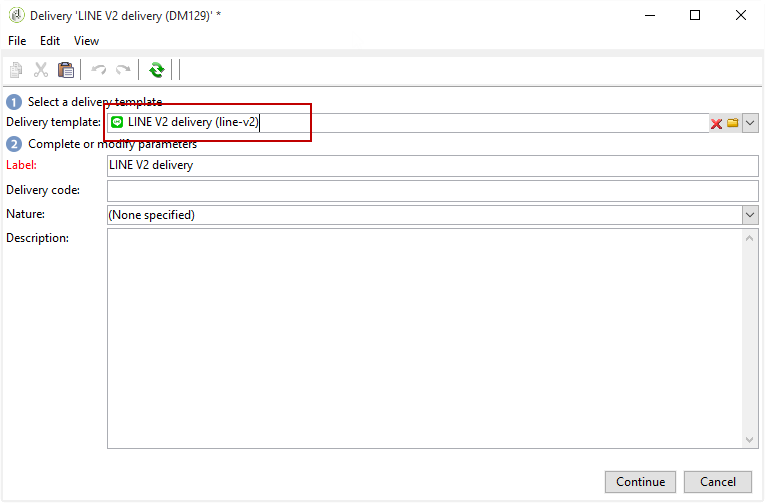
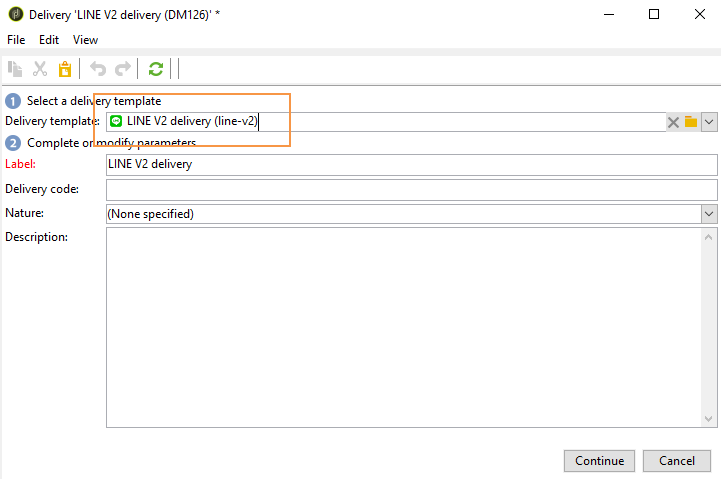
Line wip

diff --git a/help/delivery/using/line-channel.md b/help/delivery/using/line-channel.md
@@ -12,7 +12,7 @@ topic-tags: sending-messages-on-mobiles
 
 >[!NOTE]
 >
-> [!DNL LINE] is only available for on-premise or managed services installations.
+>[!DNL LINE] is only available for on-premise or managed services installations.
 
 [!DNL LINE] is an application for free instant messaging, voice and video calls, available on every mobile OS and on PC.
 
@@ -68,27 +68,51 @@ The [!DNL LINE] is now configured in Adobe Campaign, you can start creating and 
 
 >[!NOTE]
 >
->When sending a LINE delivery to a new recipient for the first time, you must add the official LINE message regarding the terms of use and consent into the delivery. The official message is available at the following link: [https://terms.line.me/OA_privacy/](https://terms.line.me/OA_privacy/sp?lang=fr).
+>When sending a [!DNL LINE] delivery to a new recipient for the first time, you must add the official LINE message regarding the terms of use and consent into the delivery. The official message is available at the [following link](https://terms.line.me/OA_privacy/sp?lang=fr).
 
 To create a [!DNL LINE] delivery you have to follow these steps:
 
 1. From the **[!UICONTROL Campaigns]** tab, select **[!UICONTROL Deliveries]** then click the **[!UICONTROL Create]** button. 
-1. In the window that appears, select **[!UICONTROL LINE V2 delivery]** delivery template.
+
+   ![](assets/line_message_07.png)
+
+1. Select **[!UICONTROL LINE V2 delivery]** delivery template.
 
    ![](assets/line_message_01.png)
 
-1. Identify your delivery with a label, code, and description. For more on this, refer to [this section](../../delivery/using/steps-create-and-identify-the-delivery.md#identifying-the-delivery).
+1. Identify your delivery with a **[!UICONTROL Label]**, **[!UICONTROL Delivery code]**, and  **[!UICONTROL Description]**. For more on this, refer to [this section](../../delivery/using/steps-create-and-identify-the-delivery.md#identifying-the-delivery). 
+   
 1. Click **[!UICONTROL Continue]** to create your delivery.
 
-1. In the delivery editor, select **[!UICONTROL To]** to target the recipients of your [!DNL LINE] delivery Targeting is carried out on **[!UICONTROL Visitors (nms:visitor)]**.
+1. In the delivery editor, select **[!UICONTROL To]** to target the recipients of your [!DNL LINE] delivery. Targeting is carried out on **[!UICONTROL Visitor subscriptions (nms:visitorSub)]**.
    
    For more information, refer to [Identifying target populations](../../delivery/using/steps-defining-the-target-population.md). 
+
+   ![](assets/line_message_08.png)
+
+1. Click **[!UICONTROL Add]** to select your **[!UICONTROL Delivery target population]**.
+
+   ![](assets/line_message_09.png)
+
+1. Choose if you want to target [!DNL LINE] subscribers directly or if you want to target users depending on their [!DNL LINE] subscription and click **[!UICONTROL Next]**. In this example, we selected **[!UICONTROL By LINE V2 subscription]**.
+
+1. Select **[!UICONTROL Line-V2]** in the **[!UICONTROL Folder]** drop-down then your [!DNL LINE] service. Click **[!UICONTROL Finish]** then **[!UICONTROL Ok]** to start personalizing your delivery.
+
+   ![](assets/line_message_10.png)
+
+1. From your delivery editor, click **[!UICONTROL Add]** to add one or multiple message and select the **[!UICONTROL Content type]**. 
+
+   For more information on the different **[!UICONTROL Content type]** available, refer to [Defining the content type](#defining-the-content).
+
+   ![](assets/line_message_11.png)
+
+1. When your delivery is created and configured correctly, you can send it to the target defined earlier. 
    
-1. Click **[!UICONTROL Add]** to add one or multiple message and select the **[!UICONTROL Content type]**. For more information on the different **[!UICONTROL Content type]** available, refer to [Defining the content type](#defining-the-content).
+   For more information on sending a delivery, refer to [Sending messages](../../delivery/using/sending-messages.md).
 
-1. When your delivery is created and configured correctly, you can send it to the target defined earlier. For more information on sending a delivery, refer to [Sending messages](../../delivery/using/sending-messages.md).
-
-1. After sending your message, access your report to measure the effectiveness of your delivery. For more information on [!DNL LINE] reports, refer to [Accessing reports](accessing-reports.md).
+1. After sending your message, access your report to measure the effectiveness of your delivery. 
+   
+   For more information on [!DNL LINE] reports, refer to [Accessing reports](accessing-reports.md).
 
 ## Define the content type {#defining-the-content}
 
@@ -172,11 +196,11 @@ After sending your delivery, you can view your [!DNL LINE] reports via the menu 
    >
    >The tracking reports indicate the click-through rate. LINE does not take the open rate into account.
 
-   ![](assets/line_reports_01.png)
+![](assets/line_reports_01.png)
  
 For LINE service reports, access the menu **[!UICONTROL Profiles and Targets]** > **[!UICONTROL Services and Subscriptions]** > **[!UICONTROL LINE-V2]** from the **[!UICONTROL Explorer]** tab. Then click the **[!UICONTROL Reports]** icon in the [!DNL LINE] service.
 
-   ![](assets/line_reports.png)
+![](assets/line_reports.png)
 
 ## Example: create and send a personalized LINE message {#example--create-and-send-a-personalized-line-message}
 
@@ -192,25 +216,28 @@ In this example, we are going to create and configure a text message and an imag
 
 1. In the configuration window of your delivery, select your target population.
 
+   For more information, refer to [Identifying target populations](../../delivery/using/steps-defining-the-target-population.md). 
+
    ![](assets/line_usecase_02.png)
 
-1. Click **[!UICONTROL Add]** to create your message and select the **[!UICONTROL Message type]**.
+1. Click **[!UICONTROL Add]** to create your message and select the **[!UICONTROL Content type]**.
 
-   Here, we first want to create a text message.
+   Here, we first want to create a **[!UICONTROL Text message]**.
 
    ![](assets/line_usecase_03.png)
 
-1. Place your cursor in the place where you want to insert the personalized text and click the drop-down icon then select **[!UICONTROL Visitor]** > **[!UICONTROL First name]**.
+1. Place your cursor where you want to insert the personalized text and click the drop-down icon then select **[!UICONTROL Visitor]** > **[!UICONTROL First name]**.
 
    ![](assets/line_usecase_05.png)
 
 1. Follow the same procedure to add an image, selecting **[!UICONTROL Image and links]** in the **[!UICONTROL Message type]** drop-down.
 
-   Add your image URL.
+   Add your **[!UICONTROL Image URL]**.
 
    ![](assets/line_usecase_07.png)
 
 1. In the **[!UICONTROL Links]** section, select the layout that will divide your image in multiple clickable regions.
+
 1. Assign an URL to each region of your image.
 
    ![](assets/line_usecase_08.png)
